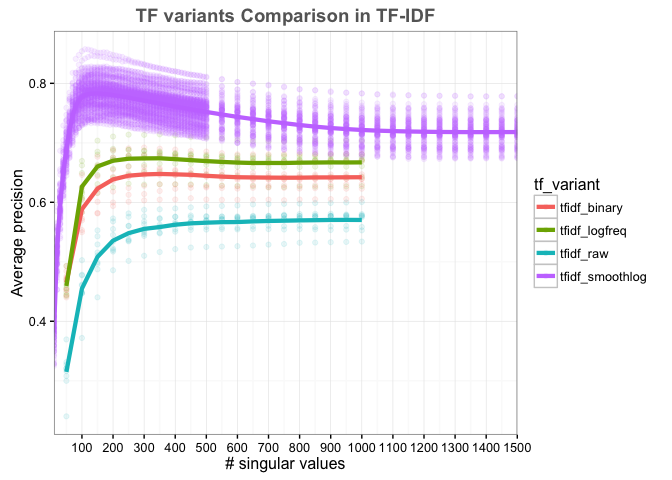
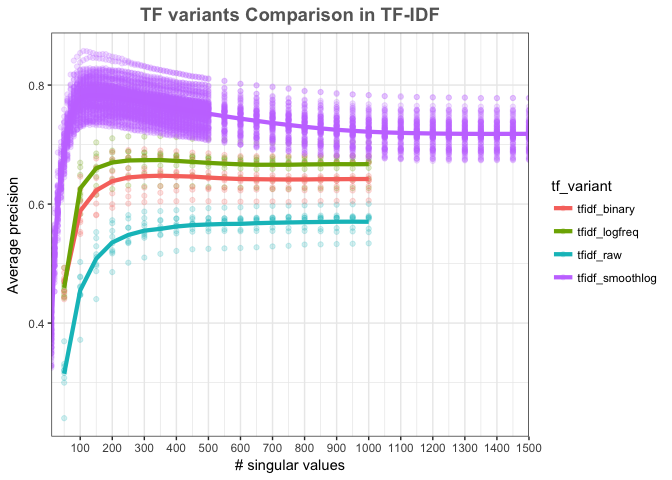
Add new analysis for TFIDF variants

diff --git a/TFIDF_Variant_Comparison/result/tf_comparision.md b/TFIDF_Variant_Comparison/result/tf_comparision.md
@@ -97,7 +97,7 @@ Now combine the two and graph!!
 all_variants <- rbind(tf_variants, tf_result)
 
 create_curves <- function(data, graphTitle){
-  ggplot(data, aes(x=nsv, y=recall, colour=tf_variant)) + geom_point(alpha=0.1) + 
+  ggplot(data, aes(x=nsv, y=recall, colour=tf_variant)) + geom_point(alpha=0.2) + 
   theme_bw() + ggtitle(graphTitle) + scale_x_continuous(expand = c(0, 0), breaks=seq(0, 1500, by=100)) + 
   labs(x="# singular values",y="Average precision") +
   theme(plot.title = element_text(color="#666666", face="bold", size=14, hjust=0.5, vjust=1))+ 
@@ -106,7 +106,7 @@ create_curves <- function(data, graphTitle){
 create_curves(all_variants, "TF variants Comparison in TF-IDF")
 ```
 
-![](tf_comparision_files/figure-html/unnamed-chunk-4-1.png)\
+![](tf_comparision_files/figure-html/unnamed-chunk-4-1.png)<!-- -->
 
 Okay I guess it's good I went with the normal one
 
@@ -120,7 +120,7 @@ colnames(results2) <- c("tf_variant", 'sample_num', 'nsv', 'recall')
 create_curves(results2, "TF variants Comparison in TF-IDF")
 ```
 
-![](tf_comparision_files/figure-html/unnamed-chunk-5-1.png)\
+![](tf_comparision_files/figure-html/unnamed-chunk-5-1.png)<!-- -->
 
 The curve looks a lot closer because smoothlog curve is lower than in the previous figure. Just double check if the result are the same. 
 
@@ -224,3 +224,45 @@ new_data %>% subset(nsv==50) %>% subset(sample_num=="10")
 ## 541      tfidf_smoothlog         10  50 0.4832512
 ## 721 tfidf_smoothlog_1000         10  50 0.4832512
 ```
+
+
+## Final result 
+
+Using the code with normalization, evaluating by looking at the top 10, and making sure every matrices were derived from nsv=1000 
+
+
+```r
+dat <-  read.table("../data/recall_4tfvariants_top10.result")
+colnames(dat) <- c("tf_variant", 'sample_num', 'nsv', 'recall')
+
+dat$sample_num <- as.factor(str_replace(dat$sample_num, 'random_pmids_', ''))
+create_curves(dat, "Final")
+```
+
+![](tf_comparision_files/figure-html/final_data-1.png)<!-- -->
+
+What if it's top 20? 
+
+```r
+dat <-  read.table("../data/recall_4tfvariants_top20.result")
+colnames(dat) <- c("tf_variant", 'sample_num', 'nsv', 'recall')
+
+dat$sample_num <- as.factor(str_replace(dat$sample_num, 'random_pmids_', ''))
+create_curves(dat, "Final")
+```
+
+![](tf_comparision_files/figure-html/final_data_top20-1.png)<!-- -->
+
+top 40 
+
+What if it's top 20? 
+
+```r
+dat <-  read.table("../data/recall_4tfvariants_top40.result")
+colnames(dat) <- c("tf_variant", 'sample_num', 'nsv', 'recall')
+
+dat$sample_num <- as.factor(str_replace(dat$sample_num, 'random_pmids_', ''))
+create_curves(dat, "Final")
+```
+
+![](tf_comparision_files/figure-html/final_data_top40-1.png)<!-- -->
